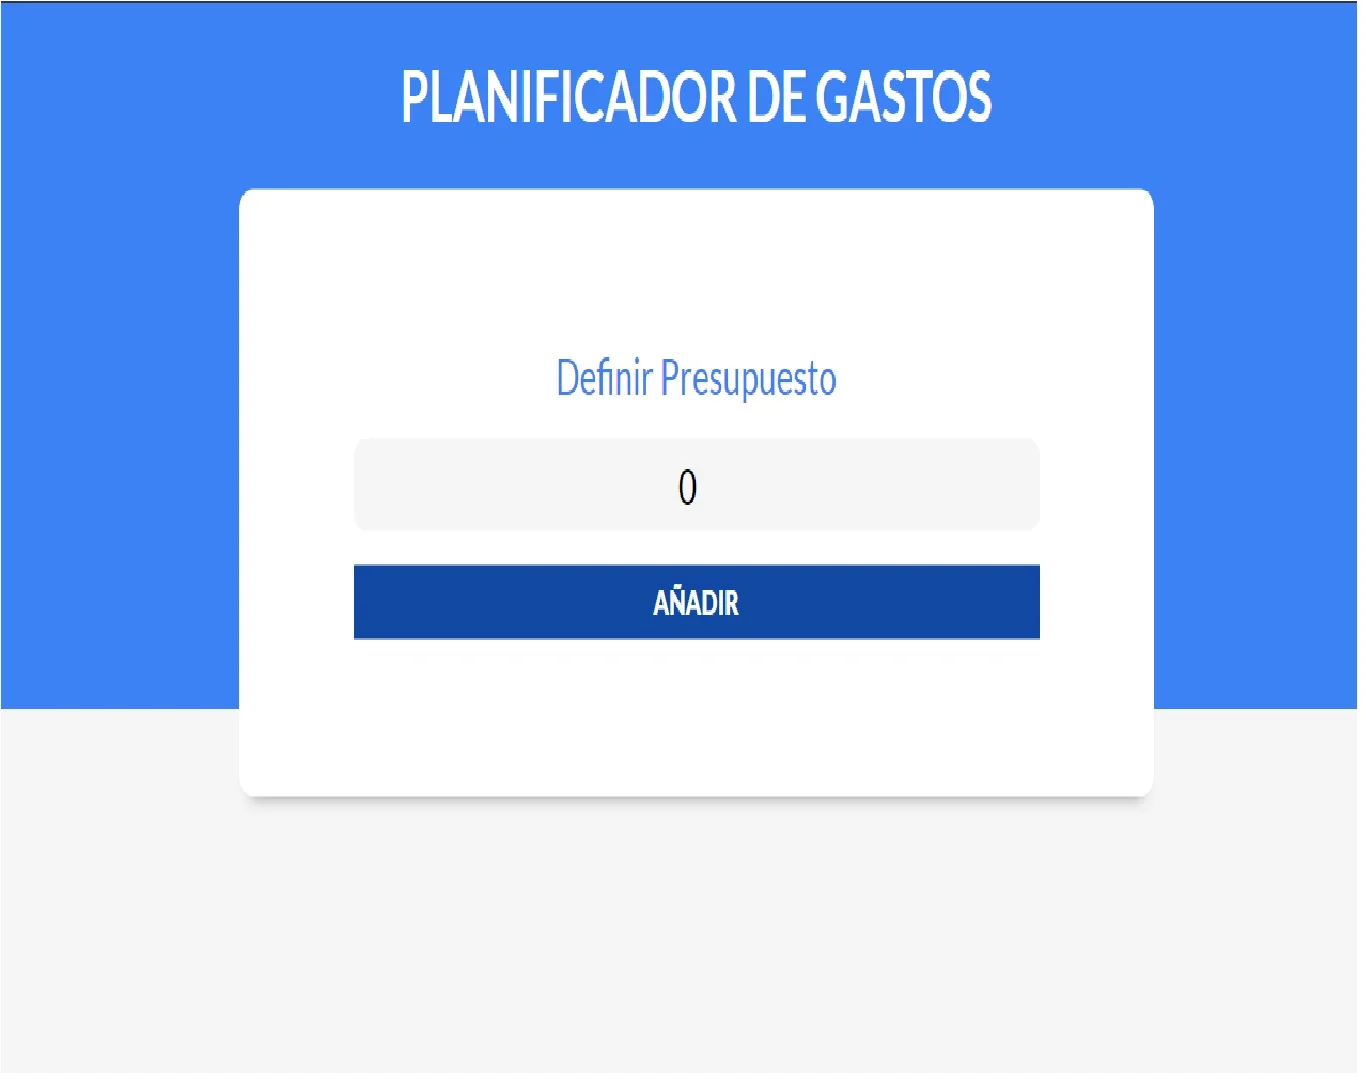
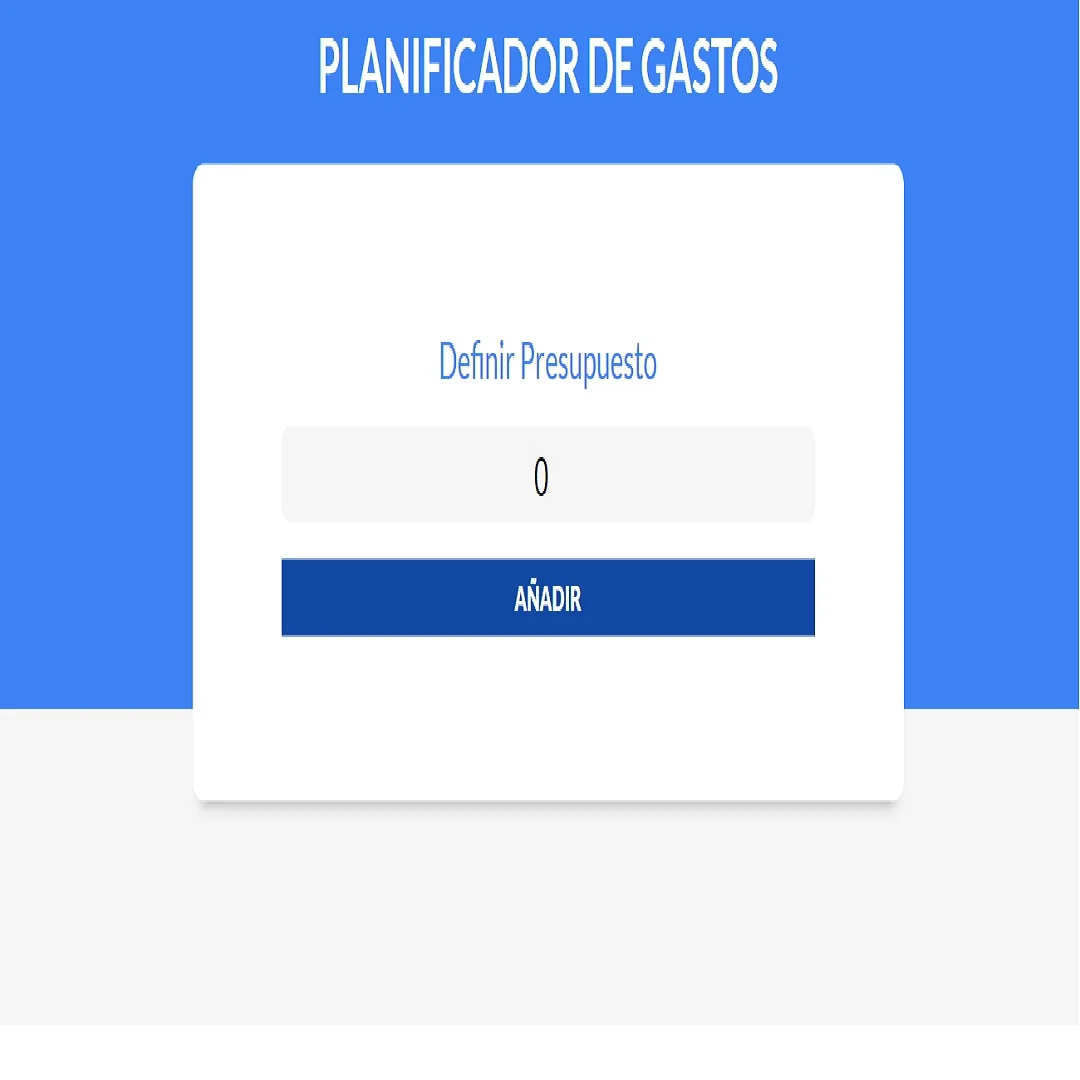
cambios web 3 final

diff --git a/index.html b/index.html
@@ -348,7 +348,7 @@
           
           <div class="col-lg-4 col-md-6 portfolio-item filter-web" >
             <div class="portfolio-wrap">
-              <img src="assets/img/portfolio/web3.1.webp " class="img-thumbnail" alt="web1"> </a>
+              <img src="assets/img/portfolio/web3.webp " class="img-thumbnail" alt="web1"> </a>
               <div class="portfolio-info">
                 <a href="https://controlcost.netlify.app" target="_blank" class="btn-primary ">
                   <h4> Planificador </h4></a>
